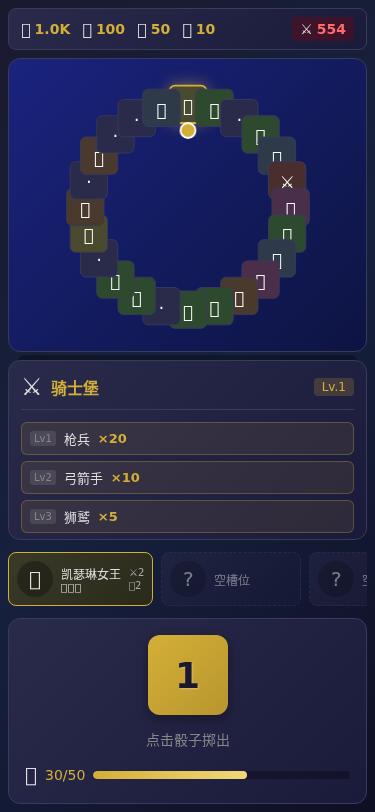
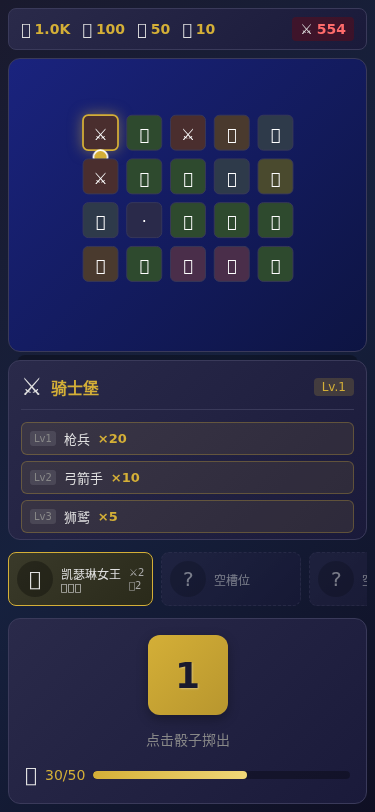
feat: 地图改为环形矩形布局（中间空心）

Changed region(s): [[0.176, 0.0924, 0.8507, 0.431]]

diff --git a/test-real-screenshots/final-page.html b/test-real-screenshots/final-page.html
@@ -3,11 +3,11 @@
     <link rel="icon" type="image/svg+xml" href="./vite.svg">
     <meta name="viewport" content="width=device-width, initial-scale=1.0">
     <title>h3-cmlike</title>
-    <script type="module" crossorigin="" src="./assets/index-C4VH4yjH.js"></script>
-    <link rel="stylesheet" crossorigin="" href="./assets/index-CMYLHrC5.css">
+    <script type="module" crossorigin="" src="./assets/index-CteqLmkL.js"></script>
+    <link rel="stylesheet" crossorigin="" href="./assets/index-1PnIJ80r.css">
   </head>
   <body>
-    <div id="app" data-v-app=""><div class="game"><div class="game-container"><div data-v-502a83e5="" class="resource-bar"><div data-v-502a83e5="" class="resources"><div data-v-502a83e5="" class="resource-item gold"><span data-v-502a83e5="" class="icon">💰</span><span data-v-502a83e5="" class="value">1.0K</span></div><div data-v-502a83e5="" class="resource-item wood"><span data-v-502a83e5="" class="icon">🪵</span><span data-v-502a83e5="" class="value">100</span></div><div data-v-502a83e5="" class="resource-item ore"><span data-v-502a83e5="" class="icon">⛏</span><span data-v-502a83e5="" class="value">50</span></div><div data-v-502a83e5="" class="resource-item crystal"><span data-v-502a83e5="" class="icon">💎</span><span data-v-502a83e5="" class="value">10</span></div></div><div data-v-502a83e5="" class="power-display"><span data-v-502a83e5="" class="power-icon">⚔</span><span data-v-502a83e5="" class="power-value">554</span></div></div><div data-v-2072f27c="" class="map-container"><div data-v-2072f27c="" class="map-wrapper"><svg data-v-2072f27c="" class="map-svg" viewBox="0 0 300 300"><g data-v-2072f27c="" class="tiles"><g data-v-2072f27c="" transform="translate(150, 40)"><rect data-v-2072f27c="" class="tile treasure active" x="-20" y="-20" width="40" height="40" rx="6"></rect><text data-v-2072f27c="" class="tile-icon" text-anchor="middle" dominant-baseline="central" y="2">📦</text><circle data-v-2072f27c="" class="player-marker" r="8" cy="28"></circle></g><g data-v-2072f27c="" transform="translate(178.47009496127728, 43.748159108202486)"><rect data-v-2072f27c="" class="tile resource" x="-20" y="-20" width="40" height="40" rx="6"></rect><text data-v-2072f27c="" class="tile-icon" text-anchor="middle" dominant-baseline="central" y="2">💰</text><!----></g><g data-v-2072f27c="" transform="translate(205, 54.73720558371174)"><rect data-v-2072f27c="" class="tile empty" x="-20" y="-20" width="40" height="40" rx="6"></rect><text data-v-2072f27c="" class="tile-icon" text-anchor="middle" dominant-baseline="central" y="2">·</text><!----></g><g data-v-2072f27c="" transform="translate(227.78174593052023, 72.21825406947978)"><rect data-v-2072f27c="" class="tile resource" x="-20" y="-20" width="40" height="40" rx="6"></rect><text data-v-2072f27c="" class="tile-icon" text-anchor="middle" dominant-baseline="central" y="2">💰</text><!----></g><g data-v-2072f27c="" transform="translate(245.26279441628824, 95)"><rect data-v-2072f27c="" class="tile special" x="-20" y="-20" width="40" height="40" rx="6"></rect><text data-v-2072f27c="" class="tile-icon" text-anchor="middle" dominant-baseline="central" y="2">✨</text><!----></g><g data-v-2072f27c="" transform="translate(256.25184089179754, 121.52990503872272)"><rect data-v-2072f27c="" class="tile attack" x="-20" y="-20" width="40" height="40" rx="6"></rect><text data-v-2072f27c="" class="tile-icon" text-anchor="middle" dominant-baseline="central" y="2">⚔</text><!----></g><g data-v-2072f27c="" transform="translate(260, 150)"><rect data-v-2072f27c="" class="tile creature" x="-20" y="-20" width="40" height="40" rx="6"></rect><text data-v-2072f27c="" class="tile-icon" text-anchor="middle" dominant-baseline="central" y="2">🐉</text><!----></g><g data-v-2072f27c="" transform="translate(256.2518408917975, 178.4700949612773)"><rect data-v-2072f27c="" class="tile resource" x="-20" y="-20" width="40" height="40" rx="6"></rect><text data-v-2072f27c="" class="tile-icon" text-anchor="middle" dominant-baseline="central" y="2">💰</text><!----></g><g data-v-2072f27c="" transform="translate(245.26279441628827, 204.99999999999997)"><rect data-v-2072f27c="" class="tile special" x="-20" y="-20" width="40" height="40" rx="6"></rect><text data-v-2072f27c="" class="tile-icon" text-anchor="middle" dominant-baseline="central" y="2">✨</text><!----></g><g data-v-2072f27c="" transform="translate(227.78174593052023, 227.78174593052023)"><rect data-v-2072f27c="" class="tile creature" x="-20" y="-20" width="40" height="40" rx="6"></rect><text data-v-2072f27c="" class="tile-icon" text-anchor="middle" dominant-baseline="central" y="2">🐉</text><!----></g><g data-v-2072f27c="" transform="translate(205, 245.26279441628827)"><rect data-v-2072f27c="" class="tile chest" x="-20" y="-20" width="40" height="40" rx="6"></rect><text data-v-2072f27c="" class="tile-icon" text-anchor="middle" dominant-baseline="central" y="2">🎁</text><!----></g><g data-v-2072f27c="" transform="translate(178.4700949612773, 256.2518408917975)"><rect data-v-2072f27c="" class="tile resource" x="-20" y="-20" width="40" height="40" rx="6"></rect><text data-v-2072f27c="" class="tile-icon" text-anchor="middle" dominant-baseline="central" y="2">💰</text><!----></g><g data-v-2072f27c="" transform="translate(150, 260)"><rect data-v-2072f27c="" class="tile resource" x="-20" y="-20" width="40" height="40" rx="6"></rect><text data-v-2072f27c="" class="tile-icon" text-anchor="middle" dominant-baseline="central" y="2">💰</text><!----></g><g data-v-2072f27c="" transform="translate(121.52990503872276, 256.25184089179754)"><rect data-v-2072f27c="" class="tile empty" x="-20" y="-20" width="40" height="40" rx="6"></rect><text data-v-2072f27c="" class="tile-icon" text-anchor="middle" dominant-baseline="central" y="2">·</text><!----></g><g data-v-2072f27c="" transform="translate(94.99999999999997, 245.26279441628822)"><rect data-v-2072f27c="" class="tile resource" x="-20" y="-20" width="40" height="40" rx="6"></rect><text data-v-2072f27c="" class="tile-icon" text-anchor="middle" dominant-baseline="central" y="2">💰</text><!----></g><g data-v-2072f27c="" transform="translate(72.21825406947978, 227.78174593052023)"><rect data-v-2072f27c="" class="tile resource" x="-20" y="-20" width="40" height="40" rx="6"></rect><text data-v-2072f27c="" class="tile-icon" text-anchor="middle" dominant-baseline="central" y="2">💰</text><!----></g><g data-v-2072f27c="" transform="translate(54.73720558371177, 205.00000000000003)"><rect data-v-2072f27c="" class="tile empty" x="-20" y="-20" width="40" height="40" rx="6"></rect><text data-v-2072f27c="" class="tile-icon" text-anchor="middle" dominant-baseline="central" y="2">·</text><!----></g><g data-v-2072f27c="" transform="translate(43.748159108202486, 178.47009496127725)"><rect data-v-2072f27c="" class="tile treasure" x="-20" y="-20" width="40" height="40" rx="6"></rect><text data-v-2072f27c="" class="tile-icon" text-anchor="middle" dominant-baseline="central" y="2">📦</text><!----></g><g data-v-2072f27c="" transform="translate(40, 150)"><rect data-v-2072f27c="" class="tile chest" x="-20" y="-20" width="40" height="40" rx="6"></rect><text data-v-2072f27c="" class="tile-icon" text-anchor="middle" dominant-baseline="central" y="2">🎁</text><!----></g><g data-v-2072f27c="" transform="translate(43.74815910820247, 121.52990503872276)"><rect data-v-2072f27c="" class="tile empty" x="-20" y="-20" width="40" height="40" rx="6"></rect><text data-v-2072f27c="" class="tile-icon" text-anchor="middle" dominant-baseline="central" y="2">·</text><!----></g><g data-v-2072f27c="" transform="translate(54.737205583711756, 94.99999999999999)"><rect data-v-2072f27c="" class="tile chest" x="-20" y="-20" width="40" height="40" rx="6"></rect><text data-v-2072f27c="" class="tile-icon" text-anchor="middle" dominant-baseline="central" y="2">🎁</text><!----></g><g data-v-2072f27c="" transform="translate(72.21825406947976, 72.21825406947978)"><rect data-v-2072f27c="" class="tile empty" x="-20" y="-20" width="40" height="40" rx="6"></rect><text data-v-2072f27c="" class="tile-icon" text-anchor="middle" dominant-baseline="central" y="2">·</text><!----></g><g data-v-2072f27c="" transform="translate(94.99999999999994, 54.737205583711784)"><rect data-v-2072f27c="" class="tile empty" x="-20" y="-20" width="40" height="40" rx="6"></rect><text data-v-2072f27c="" class="tile-icon" text-anchor="middle" dominant-baseline="central" y="2">·</text><!----></g><g data-v-2072f27c="" transform="translate(121.52990503872273, 43.748159108202486)"><rect data-v-2072f27c="" class="tile special" x="-20" y="-20" width="40" height="40" rx="6"></rect><text data-v-2072f27c="" class="tile-icon" text-anchor="middle" dominant-baseline="central" y="2">✨</text><!----></g></g></svg></div><div data-v-2072f27c="" class="event-hint"><span data-v-2072f27c="" class="event-icon">📦</span><span data-v-2072f27c="" class="event-text">发现宝物！</span></div></div><div data-v-238a47cf="" class="castle-info"><div data-v-238a47cf="" class="castle-header"><span data-v-238a47cf="" class="castle-icon">⚔</span><span data-v-238a47cf="" class="castle-name">骑士堡</span><span data-v-238a47cf="" class="castle-level">Lv.1</span></div><div data-v-238a47cf="" class="creatures-list"><div data-v-238a47cf="" class="creature-item has-units"><div data-v-238a47cf="" class="creature-info"><span data-v-238a47cf="" class="creature-level">Lv1</span><span data-v-238a47cf="" class="creature-name">枪兵</span><span data-v-238a47cf="" class="creature-count">×20</span></div><!----></div><div data-v-238a47cf="" class="creature-item has-units"><div data-v-238a47cf="" class="creature-info"><span data-v-238a47cf="" class="creature-level">Lv2</span><span data-v-238a47cf="" class="creature-name">弓箭手</span><span data-v-238a47cf="" class="creature-count">×10</span></div><!----></div><div data-v-238a47cf="" class="creature-item has-units"><div data-v-238a47cf="" class="creature-info"><span data-v-238a47cf="" class="creature-level">Lv3</span><span data-v-238a47cf="" class="creature-name">狮鹫</span><span data-v-238a47cf="" class="creature-count">×5</span></div><!----></div><div data-v-238a47cf="" class="creature-item has-units"><div data-v-238a47cf="" class="creature-info"><span data-v-238a47cf="" class="creature-level">Lv4</span><span data-v-238a47cf="" class="creature-name">剑士</span><span data-v-238a47cf="" class="creature-count">×3</span></div><!----></div><div data-v-238a47cf="" class="creature-item has-units"><div data-v-238a47cf="" class="creature-info"><span data-v-238a47cf="" class="creature-level">Lv5</span><span data-v-238a47cf="" class="creature-name">僧侣</span><span data-v-238a47cf="" class="creature-count">×2</span></div><!----></div><div data-v-238a47cf="" class="creature-item has-units"><div data-v-238a47cf="" class="creature-info"><span data-v-238a47cf="" class="creature-level">Lv6</span><span data-v-238a47cf="" class="creature-name">骑兵</span><span data-v-238a47cf="" class="creature-count">×1</span></div><!----></div><div data-v-238a47cf="" class="creature-item"><div data-v-238a47cf="" class="creature-info"><span data-v-238a47cf="" class="creature-level">Lv7</span><span data-v-238a47cf="" class="creature-name">天使</span><span data-v-238a47cf="" class="creature-count">×0</span></div><button data-v-238a47cf="" class="recruit-btn" disabled=""> 招募 (3000💰) </button></div></div></div><div data-v-60373e67="" class="hero-bar"><div data-v-60373e67="" class="hero-card legendary"><div data-v-60373e67="" class="hero-avatar">👑</div><div data-v-60373e67="" class="hero-info"><span data-v-60373e67="" class="hero-name">凯瑟琳女王</span><div data-v-60373e67="" class="hero-stars"><span data-v-60373e67="" class="star">⭐</span><span data-v-60373e67="" class="star">⭐</span><span data-v-60373e67="" class="star">⭐</span></div></div><div data-v-60373e67="" class="hero-stats"><span data-v-60373e67="" class="stat">⚔2</span><span data-v-60373e67="" class="stat">🛡2</span></div></div><div data-v-60373e67="" class="hero-card empty"><div data-v-60373e67="" class="hero-avatar">?</div><div data-v-60373e67="" class="hero-info"><span data-v-60373e67="" class="hero-name">空槽位</span></div></div><div data-v-60373e67="" class="hero-card empty"><div data-v-60373e67="" class="hero-avatar">?</div><div data-v-60373e67="" class="hero-info"><span data-v-60373e67="" class="hero-name">空槽位</span></div></div></div><div data-v-07a3f977="" class="dice-area"><div data-v-07a3f977="" class="dice-display"><div data-v-07a3f977="" class="dice"><div data-v-07a3f977="" class="dice-face">1</div><!----></div></div><div data-v-07a3f977="" class="action-hint"><span data-v-07a3f977="" class="hint-text">点击骰子掷出</span></div><div data-v-07a3f977="" class="dice-count"><span data-v-07a3f977="" class="dice-icon">🎲</span><span data-v-07a3f977="" class="count">30/50</span><div data-v-07a3f977="" class="dice-bar"><div data-v-07a3f977="" class="dice-bar-fill" style="width: 60%;"></div></div></div></div></div></div></div>
+    <div id="app" data-v-app=""><div class="game"><div class="game-container"><div data-v-502a83e5="" class="resource-bar"><div data-v-502a83e5="" class="resources"><div data-v-502a83e5="" class="resource-item gold"><span data-v-502a83e5="" class="icon">💰</span><span data-v-502a83e5="" class="value">1.0K</span></div><div data-v-502a83e5="" class="resource-item wood"><span data-v-502a83e5="" class="icon">🪵</span><span data-v-502a83e5="" class="value">100</span></div><div data-v-502a83e5="" class="resource-item ore"><span data-v-502a83e5="" class="icon">⛏</span><span data-v-502a83e5="" class="value">50</span></div><div data-v-502a83e5="" class="resource-item crystal"><span data-v-502a83e5="" class="icon">💎</span><span data-v-502a83e5="" class="value">10</span></div></div><div data-v-502a83e5="" class="power-display"><span data-v-502a83e5="" class="power-icon">⚔</span><span data-v-502a83e5="" class="power-value">554</span></div></div><div data-v-7fdfdd3b="" class="map-container"><div data-v-7fdfdd3b="" class="map-wrapper"><svg data-v-7fdfdd3b="" class="map-svg" viewBox="0 0 300 320"><g data-v-7fdfdd3b="" class="tiles"><g data-v-7fdfdd3b="" transform="translate(50, 75)"><rect data-v-7fdfdd3b="" class="tile attack active" x="-20" y="-20" width="40" height="40" rx="6"></rect><text data-v-7fdfdd3b="" class="tile-icon" text-anchor="middle" dominant-baseline="central" y="2">⚔</text><circle data-v-7fdfdd3b="" class="player-marker" r="8" cy="28"></circle></g><g data-v-7fdfdd3b="" transform="translate(100, 75)"><rect data-v-7fdfdd3b="" class="tile resource" x="-20" y="-20" width="40" height="40" rx="6"></rect><text data-v-7fdfdd3b="" class="tile-icon" text-anchor="middle" dominant-baseline="central" y="2">💰</text><!----></g><g data-v-7fdfdd3b="" transform="translate(150, 75)"><rect data-v-7fdfdd3b="" class="tile attack" x="-20" y="-20" width="40" height="40" rx="6"></rect><text data-v-7fdfdd3b="" class="tile-icon" text-anchor="middle" dominant-baseline="central" y="2">⚔</text><!----></g><g data-v-7fdfdd3b="" transform="translate(200, 75)"><rect data-v-7fdfdd3b="" class="tile chest" x="-20" y="-20" width="40" height="40" rx="6"></rect><text data-v-7fdfdd3b="" class="tile-icon" text-anchor="middle" dominant-baseline="central" y="2">🎁</text><!----></g><g data-v-7fdfdd3b="" transform="translate(250, 75)"><rect data-v-7fdfdd3b="" class="tile special" x="-20" y="-20" width="40" height="40" rx="6"></rect><text data-v-7fdfdd3b="" class="tile-icon" text-anchor="middle" dominant-baseline="central" y="2">✨</text><!----></g><g data-v-7fdfdd3b="" transform="translate(50, 125)"><rect data-v-7fdfdd3b="" class="tile attack" x="-20" y="-20" width="40" height="40" rx="6"></rect><text data-v-7fdfdd3b="" class="tile-icon" text-anchor="middle" dominant-baseline="central" y="2">⚔</text><!----></g><g data-v-7fdfdd3b="" transform="translate(100, 125)"><rect data-v-7fdfdd3b="" class="tile resource" x="-20" y="-20" width="40" height="40" rx="6"></rect><text data-v-7fdfdd3b="" class="tile-icon" text-anchor="middle" dominant-baseline="central" y="2">💰</text><!----></g><g data-v-7fdfdd3b="" transform="translate(150, 125)"><rect data-v-7fdfdd3b="" class="tile resource" x="-20" y="-20" width="40" height="40" rx="6"></rect><text data-v-7fdfdd3b="" class="tile-icon" text-anchor="middle" dominant-baseline="central" y="2">💰</text><!----></g><g data-v-7fdfdd3b="" transform="translate(200, 125)"><rect data-v-7fdfdd3b="" class="tile special" x="-20" y="-20" width="40" height="40" rx="6"></rect><text data-v-7fdfdd3b="" class="tile-icon" text-anchor="middle" dominant-baseline="central" y="2">✨</text><!----></g><g data-v-7fdfdd3b="" transform="translate(250, 125)"><rect data-v-7fdfdd3b="" class="tile treasure" x="-20" y="-20" width="40" height="40" rx="6"></rect><text data-v-7fdfdd3b="" class="tile-icon" text-anchor="middle" dominant-baseline="central" y="2">📦</text><!----></g><g data-v-7fdfdd3b="" transform="translate(50, 175)"><rect data-v-7fdfdd3b="" class="tile special" x="-20" y="-20" width="40" height="40" rx="6"></rect><text data-v-7fdfdd3b="" class="tile-icon" text-anchor="middle" dominant-baseline="central" y="2">✨</text><!----></g><g data-v-7fdfdd3b="" transform="translate(100, 175)"><rect data-v-7fdfdd3b="" class="tile empty" x="-20" y="-20" width="40" height="40" rx="6"></rect><text data-v-7fdfdd3b="" class="tile-icon" text-anchor="middle" dominant-baseline="central" y="2">·</text><!----></g><g data-v-7fdfdd3b="" transform="translate(150, 175)"><rect data-v-7fdfdd3b="" class="tile resource" x="-20" y="-20" width="40" height="40" rx="6"></rect><text data-v-7fdfdd3b="" class="tile-icon" text-anchor="middle" dominant-baseline="central" y="2">💰</text><!----></g><g data-v-7fdfdd3b="" transform="translate(200, 175)"><rect data-v-7fdfdd3b="" class="tile resource" x="-20" y="-20" width="40" height="40" rx="6"></rect><text data-v-7fdfdd3b="" class="tile-icon" text-anchor="middle" dominant-baseline="central" y="2">💰</text><!----></g><g data-v-7fdfdd3b="" transform="translate(250, 175)"><rect data-v-7fdfdd3b="" class="tile resource" x="-20" y="-20" width="40" height="40" rx="6"></rect><text data-v-7fdfdd3b="" class="tile-icon" text-anchor="middle" dominant-baseline="central" y="2">💰</text><!----></g><g data-v-7fdfdd3b="" transform="translate(50, 225)"><rect data-v-7fdfdd3b="" class="tile chest" x="-20" y="-20" width="40" height="40" rx="6"></rect><text data-v-7fdfdd3b="" class="tile-icon" text-anchor="middle" dominant-baseline="central" y="2">🎁</text><!----></g><g data-v-7fdfdd3b="" transform="translate(100, 225)"><rect data-v-7fdfdd3b="" class="tile resource" x="-20" y="-20" width="40" height="40" rx="6"></rect><text data-v-7fdfdd3b="" class="tile-icon" text-anchor="middle" dominant-baseline="central" y="2">💰</text><!----></g><g data-v-7fdfdd3b="" transform="translate(150, 225)"><rect data-v-7fdfdd3b="" class="tile creature" x="-20" y="-20" width="40" height="40" rx="6"></rect><text data-v-7fdfdd3b="" class="tile-icon" text-anchor="middle" dominant-baseline="central" y="2">🐉</text><!----></g><g data-v-7fdfdd3b="" transform="translate(200, 225)"><rect data-v-7fdfdd3b="" class="tile creature" x="-20" y="-20" width="40" height="40" rx="6"></rect><text data-v-7fdfdd3b="" class="tile-icon" text-anchor="middle" dominant-baseline="central" y="2">🐉</text><!----></g><g data-v-7fdfdd3b="" transform="translate(250, 225)"><rect data-v-7fdfdd3b="" class="tile resource" x="-20" y="-20" width="40" height="40" rx="6"></rect><text data-v-7fdfdd3b="" class="tile-icon" text-anchor="middle" dominant-baseline="central" y="2">💰</text><!----></g></g></svg></div><div data-v-7fdfdd3b="" class="event-hint"><span data-v-7fdfdd3b="" class="event-icon">⚔</span><span data-v-7fdfdd3b="" class="event-text">可以攻击！</span></div><!----></div><div data-v-238a47cf="" class="castle-info"><div data-v-238a47cf="" class="castle-header"><span data-v-238a47cf="" class="castle-icon">⚔</span><span data-v-238a47cf="" class="castle-name">骑士堡</span><span data-v-238a47cf="" class="castle-level">Lv.1</span></div><div data-v-238a47cf="" class="creatures-list"><div data-v-238a47cf="" class="creature-item has-units"><div data-v-238a47cf="" class="creature-info"><span data-v-238a47cf="" class="creature-level">Lv1</span><span data-v-238a47cf="" class="creature-name">枪兵</span><span data-v-238a47cf="" class="creature-count">×20</span></div><!----></div><div data-v-238a47cf="" class="creature-item has-units"><div data-v-238a47cf="" class="creature-info"><span data-v-238a47cf="" class="creature-level">Lv2</span><span data-v-238a47cf="" class="creature-name">弓箭手</span><span data-v-238a47cf="" class="creature-count">×10</span></div><!----></div><div data-v-238a47cf="" class="creature-item has-units"><div data-v-238a47cf="" class="creature-info"><span data-v-238a47cf="" class="creature-level">Lv3</span><span data-v-238a47cf="" class="creature-name">狮鹫</span><span data-v-238a47cf="" class="creature-count">×5</span></div><!----></div><div data-v-238a47cf="" class="creature-item has-units"><div data-v-238a47cf="" class="creature-info"><span data-v-238a47cf="" class="creature-level">Lv4</span><span data-v-238a47cf="" class="creature-name">剑士</span><span data-v-238a47cf="" class="creature-count">×3</span></div><!----></div><div data-v-238a47cf="" class="creature-item has-units"><div data-v-238a47cf="" class="creature-info"><span data-v-238a47cf="" class="creature-level">Lv5</span><span data-v-238a47cf="" class="creature-name">僧侣</span><span data-v-238a47cf="" class="creature-count">×2</span></div><!----></div><div data-v-238a47cf="" class="creature-item has-units"><div data-v-238a47cf="" class="creature-info"><span data-v-238a47cf="" class="creature-level">Lv6</span><span data-v-238a47cf="" class="creature-name">骑兵</span><span data-v-238a47cf="" class="creature-count">×1</span></div><!----></div><div data-v-238a47cf="" class="creature-item"><div data-v-238a47cf="" class="creature-info"><span data-v-238a47cf="" class="creature-level">Lv7</span><span data-v-238a47cf="" class="creature-name">天使</span><span data-v-238a47cf="" class="creature-count">×0</span></div><button data-v-238a47cf="" class="recruit-btn" disabled=""> 招募 (3000💰) </button></div></div></div><div data-v-60373e67="" class="hero-bar"><div data-v-60373e67="" class="hero-card legendary"><div data-v-60373e67="" class="hero-avatar">👑</div><div data-v-60373e67="" class="hero-info"><span data-v-60373e67="" class="hero-name">凯瑟琳女王</span><div data-v-60373e67="" class="hero-stars"><span data-v-60373e67="" class="star">⭐</span><span data-v-60373e67="" class="star">⭐</span><span data-v-60373e67="" class="star">⭐</span></div></div><div data-v-60373e67="" class="hero-stats"><span data-v-60373e67="" class="stat">⚔2</span><span data-v-60373e67="" class="stat">🛡2</span></div></div><div data-v-60373e67="" class="hero-card empty"><div data-v-60373e67="" class="hero-avatar">?</div><div data-v-60373e67="" class="hero-info"><span data-v-60373e67="" class="hero-name">空槽位</span></div></div><div data-v-60373e67="" class="hero-card empty"><div data-v-60373e67="" class="hero-avatar">?</div><div data-v-60373e67="" class="hero-info"><span data-v-60373e67="" class="hero-name">空槽位</span></div></div></div><div data-v-07a3f977="" class="dice-area"><div data-v-07a3f977="" class="dice-display"><div data-v-07a3f977="" class="dice"><div data-v-07a3f977="" class="dice-face">1</div><!----></div></div><div data-v-07a3f977="" class="action-hint"><span data-v-07a3f977="" class="hint-text">点击骰子掷出</span></div><div data-v-07a3f977="" class="dice-count"><span data-v-07a3f977="" class="dice-icon">🎲</span><span data-v-07a3f977="" class="count">30/50</span><div data-v-07a3f977="" class="dice-bar"><div data-v-07a3f977="" class="dice-bar-fill" style="width: 60%;"></div></div></div></div></div></div></div>
   
 
 </body></html>

diff --git a/src/components/MapView.vue b/src/components/MapView.vue
@@ -60,24 +60,59 @@ defineProps<{
   eventMessage: string
 }>()
 
-// 计算地格位置（矩形网格布局）
+// 计算地格位置（环形矩形布局 - 格子只在矩形边缘）
 function getTileTransform(index: number): string {
-  const cols = 5 // 每行5个格子
-  const rows = 4 // 共4行
+  // 环形布局参数
+  const cols = 6 // 外框宽度（格数）
+  const rows = 4 // 外框高度（格数）
   const tileSize = 40 // 格子边长
-  const gap = 50 // 间距（大于格子边长，确保不重叠）
+  const gap = 45 // 间距
 
-  const col = index % cols
-  const row = Math.floor(index / cols)
+  // 计算环形路径的各边格子数
+  const topEdge = cols      // 顶边格子数
+  const rightEdge = rows - 1 // 右边格子数（去掉右上角）
+  const bottomEdge = cols    // 底边格子数
+  const leftEdge = rows - 2  // 左边格子数（去掉左上角和左下角）
+
+  const totalTiles = topEdge + rightEdge + bottomEdge + leftEdge // 总格子数 = 6 + 3 + 6 + 2 = 17
+
+  // 超出范围的格子放在中间
+  if (index >= totalTiles) {
+    const x = 150
+    const y = 160
+    return `translate(${x}, ${y})`
+  }
 
   // 计算居中偏移
   const totalWidth = cols * gap
   const totalHeight = rows * gap
-  const offsetX = (300 - totalWidth) / 2 + gap / 2
-  const offsetY = (300 - totalHeight) / 2 + gap / 2
+  const startX = (300 - totalWidth) / 2 + gap / 2
+  const startY = (300 - totalHeight) / 2 + gap / 2
 
-  const x = offsetX + col * gap
-  const y = offsetY + row * gap
+  let col = 0
+  let row = 0
+
+  // 根据索引计算在环形中的位置
+  if (index < topEdge) {
+    // 顶边：从左到右
+    col = index
+    row = 0
+  } else if (index < topEdge + rightEdge) {
+    // 右边：从上到下（去掉右上角）
+    col = cols - 1
+    row = (index - topEdge) + 1
+  } else if (index < topEdge + rightEdge + bottomEdge) {
+    // 底边：从右到左
+    col = cols - 1 - (index - topEdge - rightEdge)
+    row = rows - 1
+  } else {
+    // 左边：从下到上（去掉左下角和左上角）
+    col = 0
+    row = rows - 1 - (index - topEdge - rightEdge - bottomEdge)
+  }
+
+  const x = startX + col * gap
+  const y = startY + row * gap
 
   return `translate(${x}, ${y})`
 }
